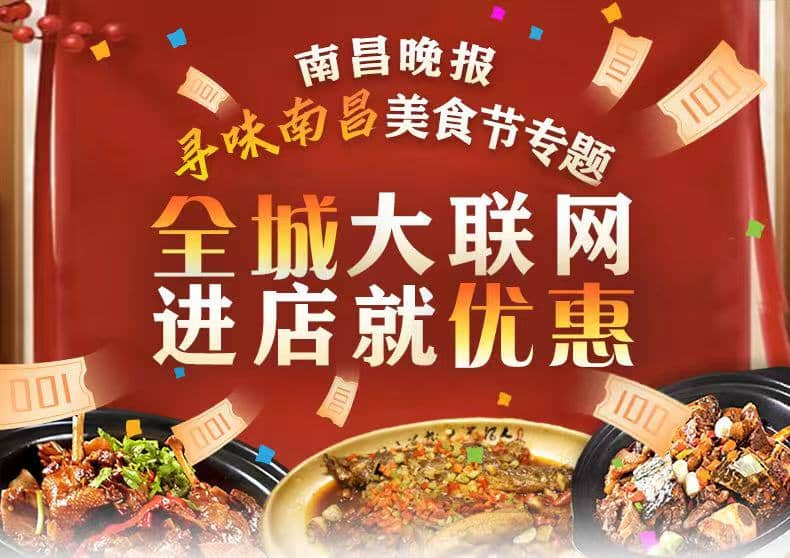
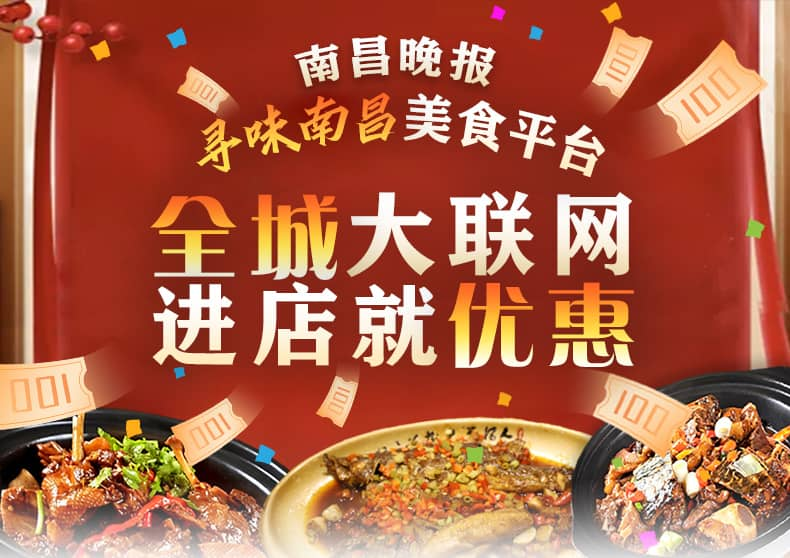
11

diff --git a/index.html b/index.html
@@ -1,7 +1,7 @@
 <html>
 <head>
 <meta http-equiv="Content-Type" content="text/html; charset=UTF-8">
-<title>南昌晚报寻味南昌美食节专题</title>
+<title>南昌晚报寻味南昌美食平台</title>
 <meta name="viewport" content="width=device-width, initial-scale=1.0, maximum-scale=1.0, user-scalable=no">
 <style type="text/css">
     td{
@@ -64,7 +64,7 @@
      <td colspan="2"><a href="https://mp.weixin.qq.com/s/w5pSZtdI9q3O9GLv6_BRDA"><img src="./images/010.jpeg" width="100%"></a><img class="code" src="./images/code10.png"></td> 
     </tr>
     <tr>
-     <td colspan="2" style="text-align: center;"><p style="margin:20 0 50 0;color: gray;font-size: 16px;">出品:南昌晚报寻味南昌美食节组委会<br>联系电话：18170828972</p></td> 
+     <td colspan="2" style="text-align: center;"><p style="margin:20 0 50 0;color: gray;font-size: 16px;">出品:南昌晚报寻味南昌组委会<br>联系电话：18170828972</p></td> 
     </tr>
 	<tr style="position:fixed; bottom:20px; right:10px;">
 		<td colspan="3"><a href="#"><img src="./images/back.png" width="40"></a></td>
